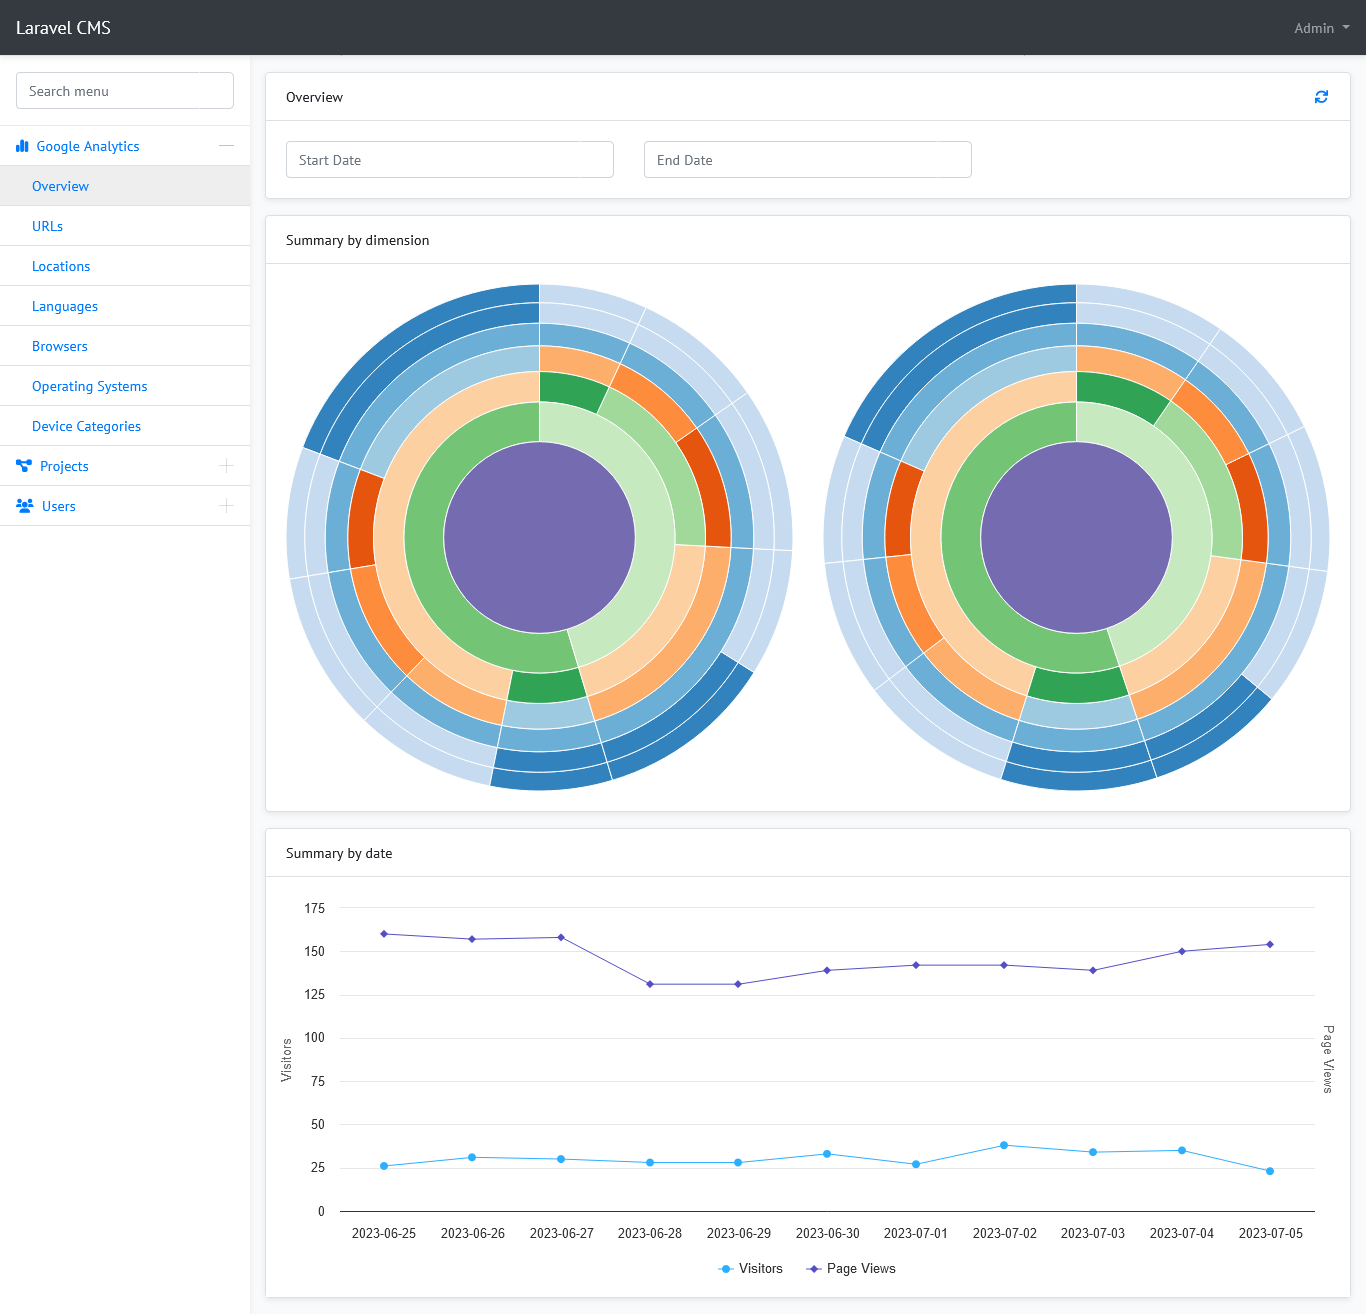
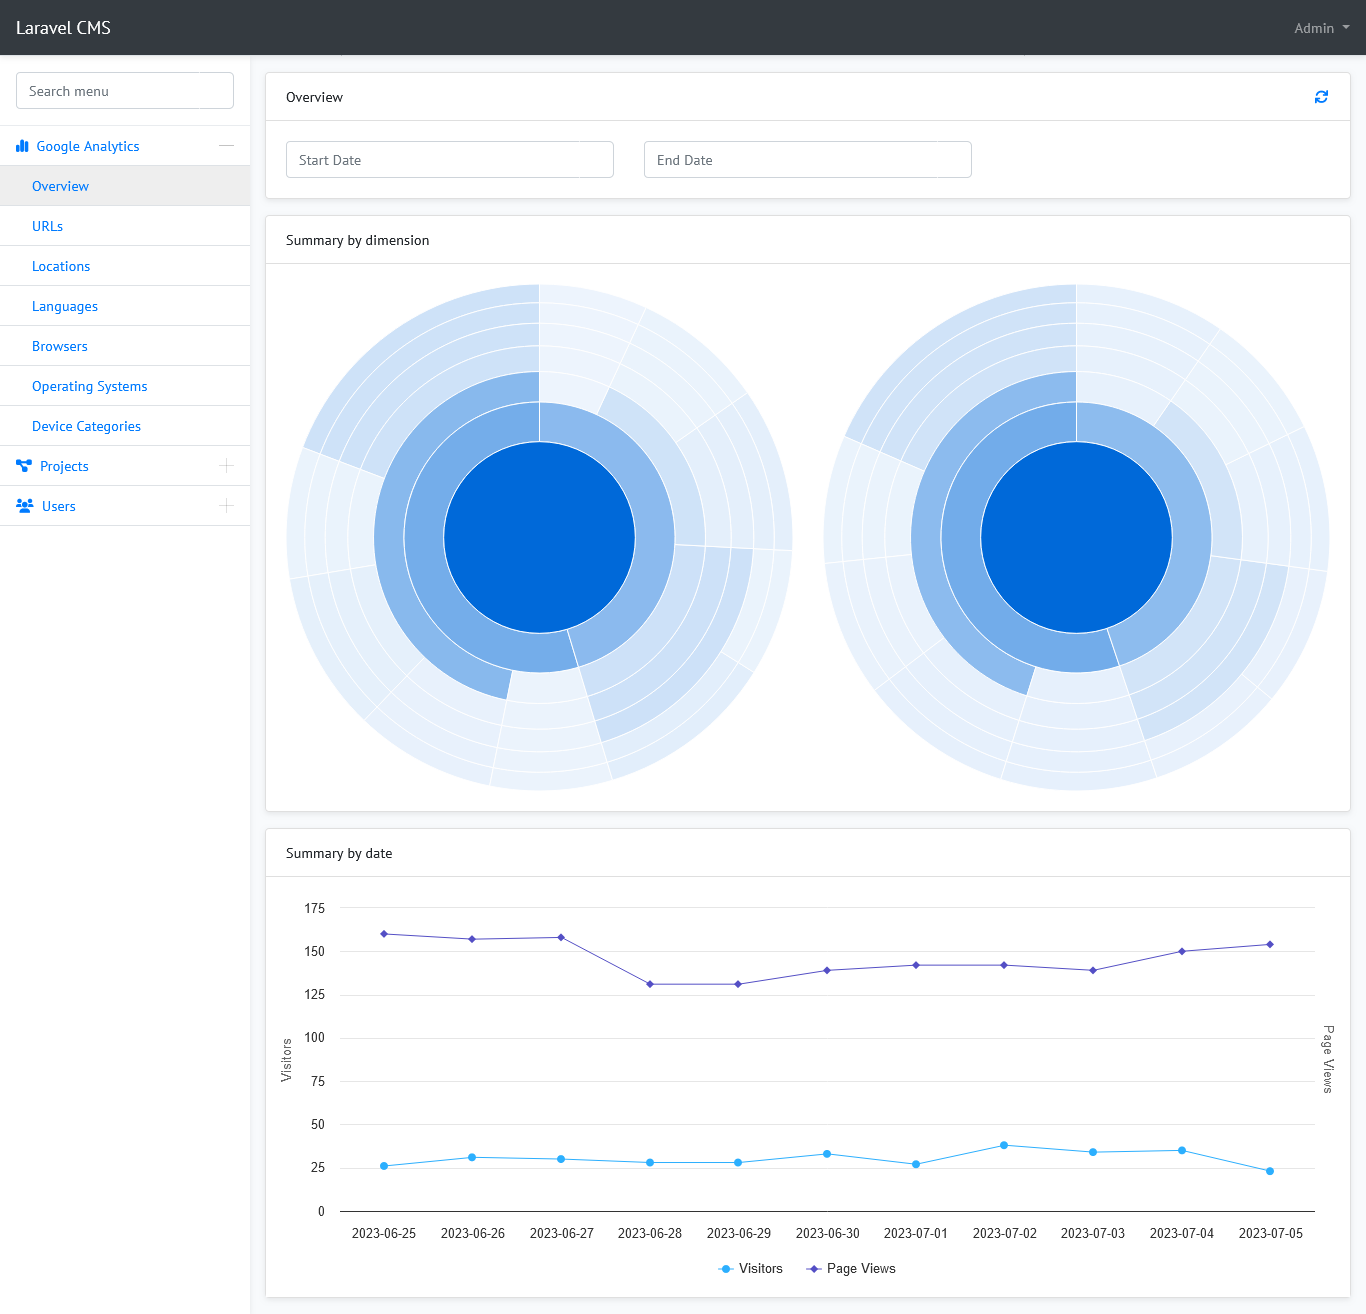
Added color to sun charts.

Changed region(s): [[0.1845, 0.2184, 0.9839, 0.624]]

diff --git a/app/Http/Controllers/Backend/GoogleAnalyticsController.php b/app/Http/Controllers/Backend/GoogleAnalyticsController.php
@@ -54,38 +54,50 @@ class GoogleAnalyticsController extends Controller
 
             $data = [];
 
-            foreach (['visitors', 'pageviews'] as $metric) {
-                $data[$metric] = $overview->groupBy(['device_category', 'operating_system', 'browser', 'continent', 'country', 'city'])->map(function ($data, $key) use ($metric) {
-                    return [
-                        'name' => $key,
-                        'children' => $data->map(function ($data, $key) use ($metric) {
-                            return [
-                                'name' => $key,
-                                'children' => $data->map(function ($data, $key) use ($metric) {
-                                    return [
-                                        'name' => $key,
-                                        'children' => $data->map(function ($data, $key) use ($metric) {
-                                            return [
-                                                'name' => $key,
-                                                'children' => $data->map(function ($data, $key) use ($metric) {
-                                                    return [
-                                                        'name' => $key,
-                                                        'children' => $data->map(function ($data, $key) use ($metric) {
-                                                            return [
-                                                                'name' => $key,
-                                                                'size' => $data->sum($metric)
-                                                            ];
-                                                        })->values()
-                                                    ];
-                                                })->values()
-                                            ];
-                                        })->values()
-                                    ];
-                                })->values()
-                            ];
-                        })->values()
-                    ];
-                })->values()->toJson();
+            foreach (['visitors', 'pageviews'] as $metric) {                
+                $a = 1 / $overview->sum($metric);
+
+                $data[$metric] = collect([
+                    'name' => __('content.backend.google-analytics.sunburstchart.dimensions.' . $metric),
+                    'color' => 'rgb(0, 105, 217)',
+                    'children' => $overview->groupBy('device_category')->map(function ($data, $key) use ($metric, $a) {
+                        return [
+                            'name' => $key,
+                            'color' => 'rgba(0, 105, 217, ' . ($a * $data->sum($metric)) . ')',
+                            'children' => $data->groupBy('operating_system')->map(function ($data, $key) use ($metric, $a) {
+                                return [
+                                    'name' => $key,
+                                    'color' => 'rgba(0, 105, 217, ' . ($a * $data->sum($metric)) . ')',
+                                    'children' => $data->groupBy('browser')->map(function ($data, $key) use ($metric, $a) {
+                                        return [
+                                            'name' => $key,
+                                            'color' => 'rgba(0, 105, 217, ' . ($a * $data->sum($metric)) . ')',
+                                            'children' => $data->groupBy('continent')->map(function ($data, $key) use ($metric, $a) {
+                                                return [
+                                                    'name' => $key,
+                                                    'color' => 'rgba(0, 105, 217, ' . ($a * $data->sum($metric)) . ')',
+                                                    'children' => $data->groupBy('country')->map(function ($data, $key) use ($metric, $a) {
+                                                        return [
+                                                            'name' => $key,
+                                                            'color' => 'rgba(0, 105, 217, ' . ($a * $data->sum($metric)) . ')',
+                                                            'children' => $data->groupBy('city')->map(function ($data, $key) use ($metric, $a) {
+                                                                return [
+                                                                    'name' => $key,
+                                                                    'color' => 'rgba(0, 105, 217, ' . ($a * $data->sum($metric)) . ')',
+                                                                    'size' => $data->sum($metric)
+                                                                ];
+                                                            })->values()
+                                                        ];
+                                                    })->values()
+                                                ];
+                                            })->values()
+                                        ];
+                                    })->values()
+                                ];
+                            })->values()
+                        ];
+                    })->values()
+                ])->toJson();
             }
 
             return $data;

diff --git a/resources/views/backend/google-analytics/overview.blade.php b/resources/views/backend/google-analytics/overview.blade.php
@@ -70,8 +70,8 @@
                 url: '{!! route('backend.google-analytics.overview') !!}',
                 data: data,
                 success: function (data) {
-                    sunburstChart('#chart-sunburst-visitors', '{{ __('content.backend.google-analytics.sunburstchart.dimensions.visitors') }}', JSON.parse(data.visitors));
-                    sunburstChart('#chart-sunburst-pageviews', '{{ __('content.backend.google-analytics.sunburstchart.dimensions.pageviews') }}', JSON.parse(data.pageviews));
+                    sunburstChart('#chart-sunburst-visitors', JSON.parse(data.visitors));
+                    sunburstChart('#chart-sunburst-pageviews', JSON.parse(data.pageviews));
                 }
             });
 

diff --git a/resources/views/backend/google-analytics/scripts/sunburstchart.blade.php b/resources/views/backend/google-analytics/scripts/sunburstchart.blade.php
@@ -1,5 +1,5 @@
 <script>
-    function sunburstChart(select, name, children) {
+    function sunburstChart(select, data) {
         $(select + ' > *').remove();
         $('.nvtooltip').remove();
 
@@ -14,10 +14,7 @@
                     left: 0
                 });
 
-            d3.select(select).datum([{
-                "name": name,
-                "children": children
-            }]).call(chart);
+            d3.select(select).datum([data]).call(chart);
 
             nv.utils.windowResize(chart.update);
 
